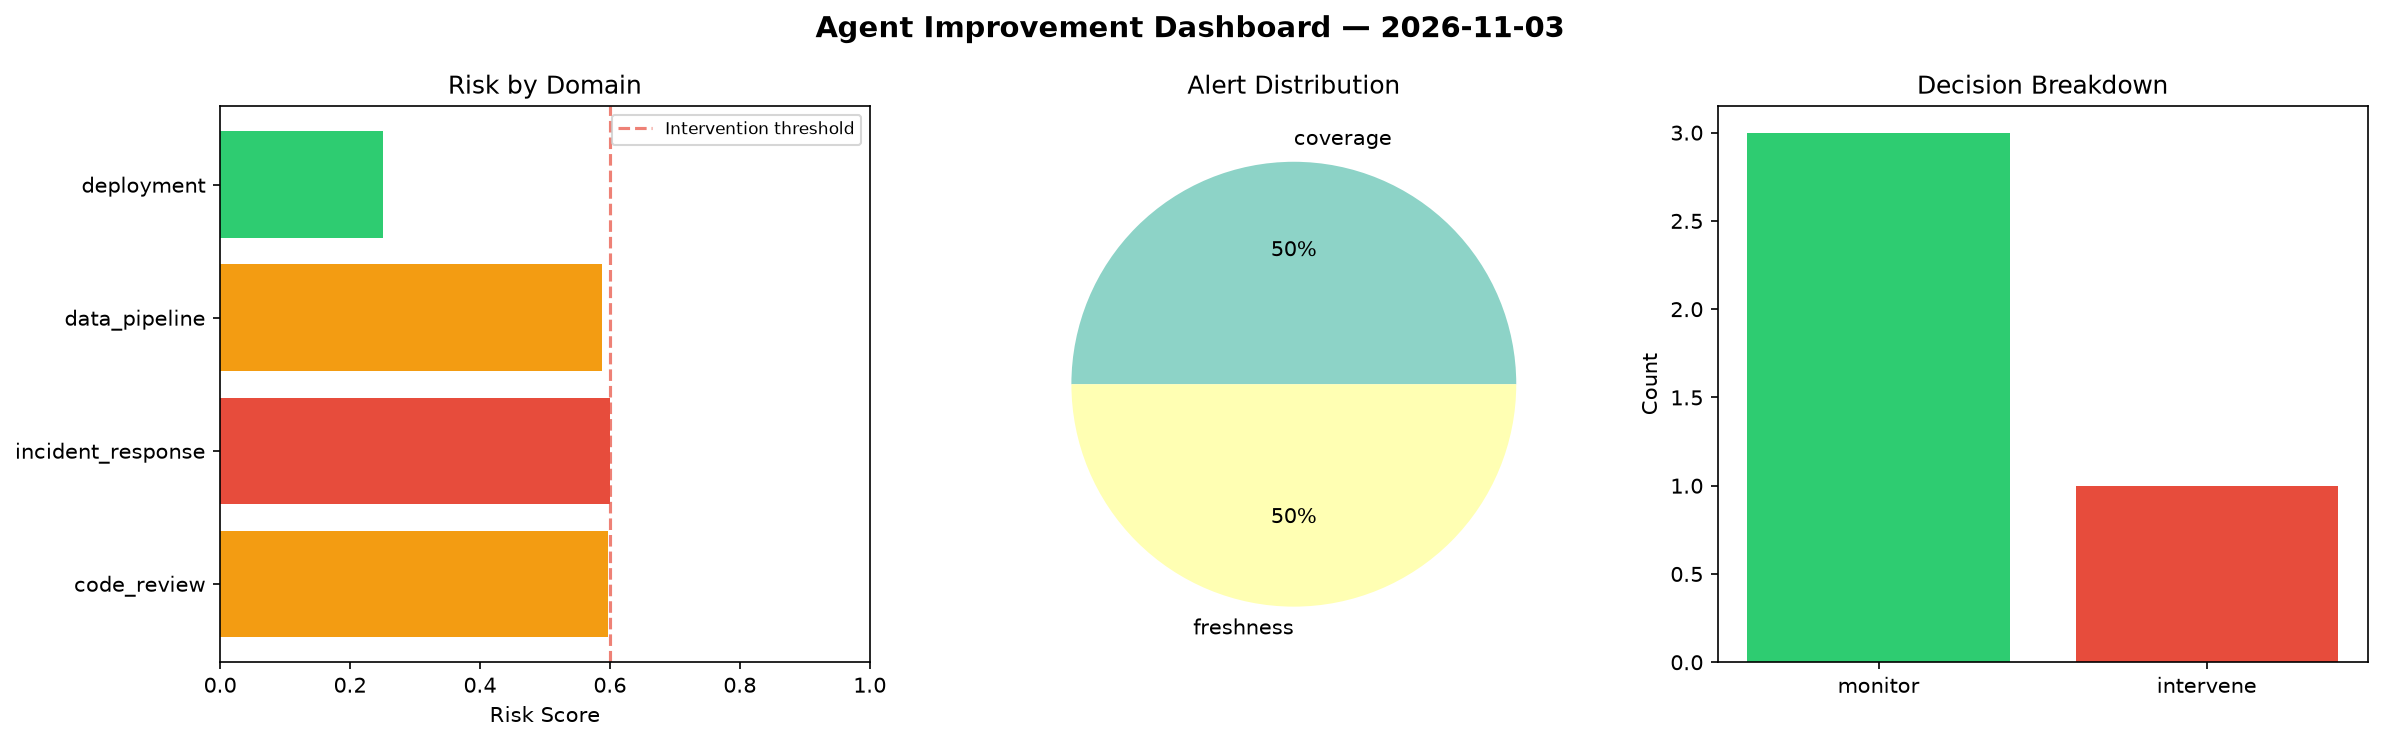
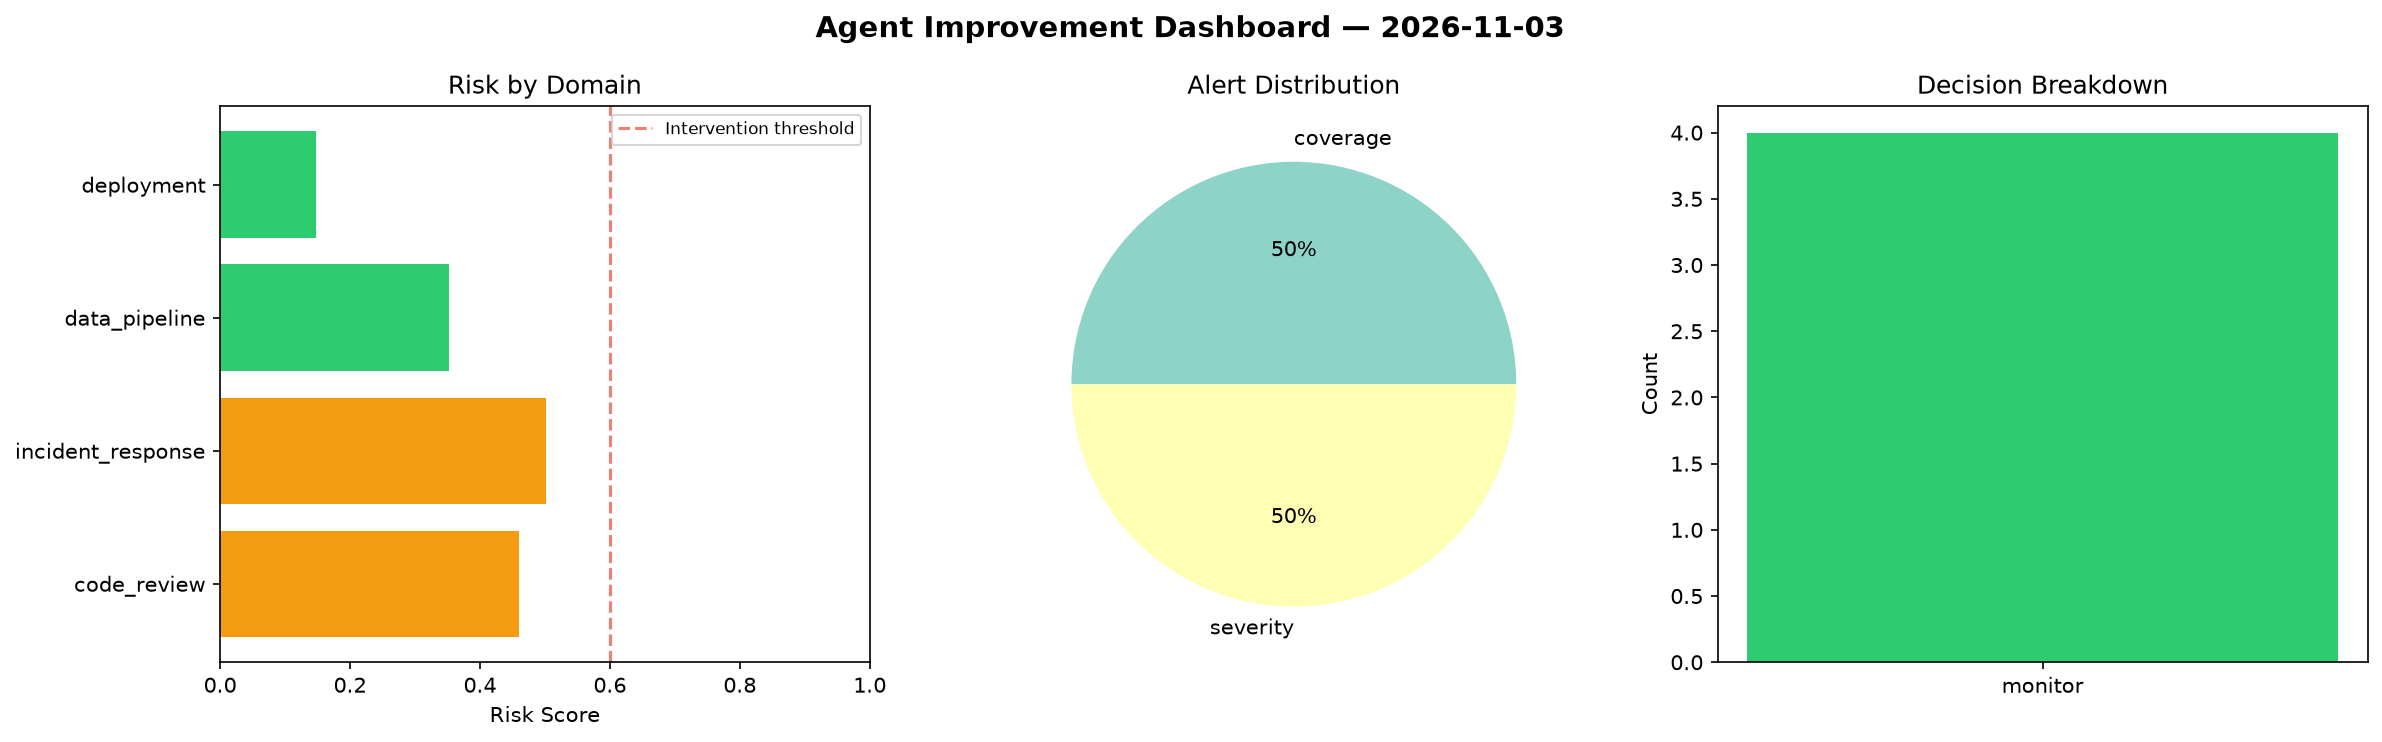
agent-improvement: daily cycle 2026-11-03T16:14

diff --git a/logs/2026-11-03.md b/logs/2026-11-03.md
@@ -1,6 +1,6 @@
 # Agent Improvement Report — 2026-11-03
 
-**Cycle ID:** `2077b7f5` | **Avg Risk:** 0.5089 | **Interventions:** 1/4
+**Cycle ID:** `02485f78` | **Avg Risk:** 0.365 | **Interventions:** 0/4
 
 ![Dashboard](2026-11-03_dashboard.png)
 
@@ -10,18 +10,18 @@
 
 | Domain | Risk Score | Decision | Alerts |
 |--------|-----------|----------|--------|
-| code_review | 0.5966 | monitor | coverage |
-| incident_response | 0.6007 | intervene | none |
-| data_pipeline | 0.588 | monitor | freshness |
-| deployment | 0.2501 | monitor | none |
+| code_review | 0.4596 | monitor | coverage |
+| incident_response | 0.5009 | monitor | severity |
+| data_pipeline | 0.3516 | monitor | none |
+| deployment | 0.148 | monitor | none |
 
 ## Delta vs Yesterday
 
 | Domain | Today | Yesterday | Change |
 |--------|-------|-----------|--------|
-| code_review | 0.5966 | 0.5764 | 📈 3.5% |
-| incident_response | 0.6007 | 0.6914 | 📉 -13.1% |
-| data_pipeline | 0.588 | 0.7144 | 📉 -17.7% |
-| deployment | 0.2501 | 0.501 | 📉 -50.1% |
+| code_review | 0.4596 | 0.5764 | 📉 -20.3% |
+| incident_response | 0.5009 | 0.6914 | 📉 -27.6% |
+| data_pipeline | 0.3516 | 0.7144 | 📉 -50.8% |
+| deployment | 0.148 | 0.501 | 📉 -70.5% |
 
 **Refinement:** `{'adjustment': 'maintain', 'trend': 'improving', 'window': 4}`
